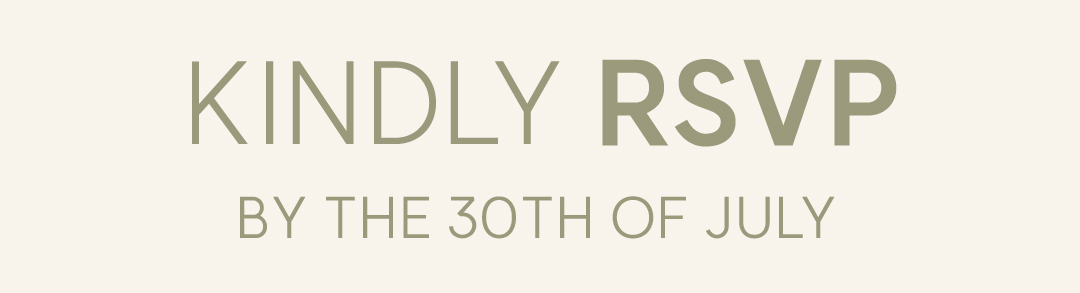
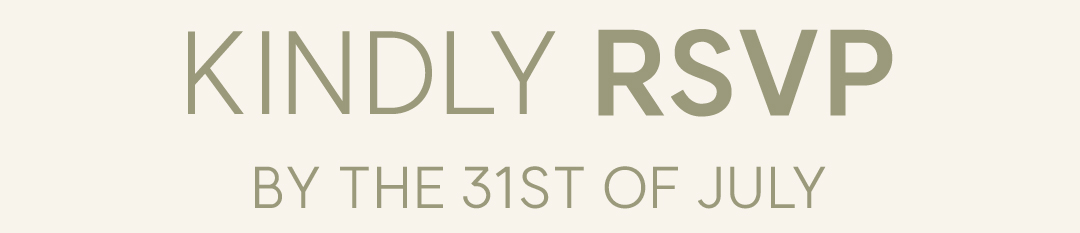
“수정”

Changed region(s): [[0.2139, 0.6609, 0.7944, 0.9013], [0.1528, 0.1202, 0.5194, 0.5107], [0.55, 0.1202, 0.8556, 0.5107]]

diff --git a/index.html b/index.html
@@ -79,6 +79,12 @@
     margin-bottom: 0 auto !important;
 }
 
+	.mobile-center-box img.transport-image02 {
+    width: 88% !important;
+    max-width: 480px !important;
+    margin-bottom: 300px !important;
+}
+
     .flip-clock {
       display: flex !important;
       justify-content: center !important; /* 💡 타이머 내부 세트들을 정중앙으로 밀집 */
@@ -110,7 +116,7 @@
 
   .flip-clock__slot {
   font-size: 0.6rem;
-  color: #9a9a7b;
+  color:;
   margin-top: 12px;
   font-weight: 200;
   opacity: 0.65;
@@ -381,6 +387,163 @@ body{
     scroll-snap-align:center;
 }
 
+.account-section{
+    padding:70px 24px;
+    font-family:'SUITE',sans-serif;
+}
+
+.account-title{
+    text-align:center;
+    margin-bottom:38px;
+}
+
+.account-title img{
+    width:180px;
+    max-width:80%;
+    display:block;
+    margin:0 auto;
+}
+
+.account-wrap{
+    display:flex;
+    gap:16px;
+}
+
+.account-side{
+    flex:1;
+}
+
+.account-btn{
+
+    width:100%;
+    height:48px;
+
+    border:1px solid #9a9a7b;
+    border-radius:30px;
+
+    background:#fff;
+
+    color:#9a9a7b;
+
+    font-family:'SUITE',sans-serif;
+    font-size:17px;
+    font-weight:600;
+
+    cursor:pointer;
+
+    transition:.25s;
+}
+
+.account-btn:hover{
+    background:#f8f4ec;
+}
+
+.account-list{
+
+    max-height:0;
+    overflow:hidden;
+
+    transition:max-height .35s ease;
+
+}
+
+.account-list.open{
+
+    max-height:500px;
+    margin-top:18px;
+
+}
+
+.account-item{
+
+    margin-bottom:20px;
+
+}
+
+.account-name{
+
+    color:#9a9a7b;
+    font-size:15px;
+    font-weight:600;
+
+    margin-bottom:8px;
+
+}
+
+.account-number{
+
+    display:inline-flex;
+    align-items:center;
+
+    gap:6px;
+
+    color:#9a9a7b;
+
+    font-size:14px;
+
+    line-height:1.5;
+
+}
+
+.copy-icon{
+
+    width:14px;
+    height:14px;
+
+    cursor:pointer;
+
+    opacity:.75;
+
+    transition:.2s;
+
+}
+
+.copy-icon:hover{
+
+    opacity:1;
+    transform:scale(1.12);
+
+}
+
+.copy-toast{
+
+    position:fixed;
+
+    left:50%;
+    bottom:40px;
+
+    transform:translateX(-50%) translateY(20px);
+
+    background:#f8f4ec;
+
+    border:1px solid #9a9a7b;
+
+    color:#9a9a7b;
+
+    font-family:'SUITE',sans-serif;
+    font-size:14px;
+
+    padding:10px 18px;
+
+    border-radius:24px;
+
+    opacity:0;
+
+    transition:.3s;
+
+    z-index:9999;
+
+    pointer-events:none;
+
+}
+
+.copy-toast.show{
+
+    opacity:1;
+    transform:translateX(-50%) translateY(0);
+
+}
+
 }
 </style>
 
@@ -437,6 +600,45 @@ pauseBtn.onclick = function() {
   playBtn.style.display = "block";
 };
 </script>
+
+function toggleAccount(id){
+
+    const groom=document.getElementById("groomAccount");
+    const bride=document.getElementById("brideAccount");
+
+    if(id==="groomAccount"){
+
+        bride.classList.remove("open");
+        groom.classList.toggle("open");
+
+    }else{
+
+        groom.classList.remove("open");
+        bride.classList.toggle("open");
+
+    }
+
+}
+
+function copyAccount(id){
+
+    const text=document.getElementById(id).innerText;
+
+    navigator.clipboard.writeText(text).then(function(){
+
+        const toast=document.getElementById("copyToast");
+
+        toast.classList.add("show");
+
+        setTimeout(function(){
+
+            toast.classList.remove("show");
+
+        },1500);
+
+    });
+
+}
 
 <body>
 
@@ -547,8 +749,124 @@ pauseBtn.onclick = function() {
 <div class="mobile-center-box">
     <img src="./images/지하철차량.jpg"
          alt="지하철차량"
-         class="transport-image">
+         class="transport-image02 style="margin-bottom:600px !important;">
 </div>
+
+<div class="mobile-center-box">
+    <img src="./images/RSVP.jpg" alt="02" style="margin-bottom:260px !important;">
+  </div>
+  
+  <section class="account-section">
+
+    <div class="account-title">
+        <img src="./images/Registry.png" alt="Registry">
+    </div>
+
+    <div class="account-wrap">
+
+        <!-- 신랑측 -->
+        <div class="account-side">
+
+            <button class="account-btn"
+                onclick="toggleAccount('groomAccount')">
+                신랑측
+            </button>
+
+            <div class="account-list" id="groomAccount">
+
+                <div class="account-item">
+                  <div class="account-name">신랑 이재환</div>
+
+                    <div class="account-number">
+                        <span id="groom1">기업은행 334 095093 01 010</span>
+
+                        <img src="./images/copy.png"
+                             class="copy-icon"
+                             alt="복사"
+                             onclick="copyAccount('groom1')">
+                    </div>
+                </div>
+
+
+              </div>
+
+                <div class="account-item">
+                    <div class="account-name">모 윤희경</div>
+
+                    <div class="account-number">
+                        <span id="groom3">농협 211077 52 003755</span>
+
+                        <img src="./images/copy.png"
+                             class="copy-icon"
+                             alt="복사"
+                             onclick="copyAccount('groom3')">
+                    </div>
+                </div>
+
+            </div>
+
+        </div>
+
+        <!-- 신부측 -->
+        <div class="account-side">
+
+            <button class="account-btn"
+                onclick="toggleAccount('brideAccount')">
+                신부측
+            </button>
+
+            <div class="account-list" id="brideAccount">
+
+                <div class="account-item">
+                    <div class="account-name">신부 김한결</div>
+
+                    <div class="account-number">
+                        <span id="bride1">하나은행 620 200382 454</span>
+
+                        <img src="./images/copy.png"
+                             class="copy-icon"
+                             alt="복사"
+                             onclick="copyAccount('bride1')">
+                    </div>
+                </div>
+
+                <div class="account-item">
+                    <div class="account-name">부 김종덕</div>
+
+                    <div class="account-number">
+                        <span id="bride2">농협 959 01 031624</span>
+
+                        <img src="./images/copy.png"
+                             class="copy-icon"
+                             alt="복사"
+                             onclick="copyAccount('bride2')">
+                    </div>
+                </div>
+
+                <div class="account-item">
+                    <div class="account-name">모 양시연</div>
+
+                    <div class="account-number">
+                        <span id="bride3">농협 1095 12 010476</span>
+
+                        <img src="./images/copy.png"
+                             class="copy-icon"
+                             alt="복사"
+                             onclick="copyAccount('bride3')">
+                    </div>
+                </div>
+
+            </div>
+
+        </div>
+
+    </div>
+
+    <div id="copyToast" class="copy-toast">
+        계좌번호가 복사되었습니다.
+    </div>
+
+</section>
 
 <script charset="UTF-8"
         class="daum_roughmap_loader_script"
@@ -574,7 +892,7 @@ pauseBtn.onclick = function() {
   // HTML 문서 전체가 로드 완료되면 지도 렌더링 시작
   window.addEventListener('DOMContentLoaded', renderKakaoMap);
 </script>
-  </div>
+</div>
 
   <script>
     // 🎯 한국 시간(KST) 기준 2026년 10월 9일 오후 3시 정각 타깃 카운트다운 고정